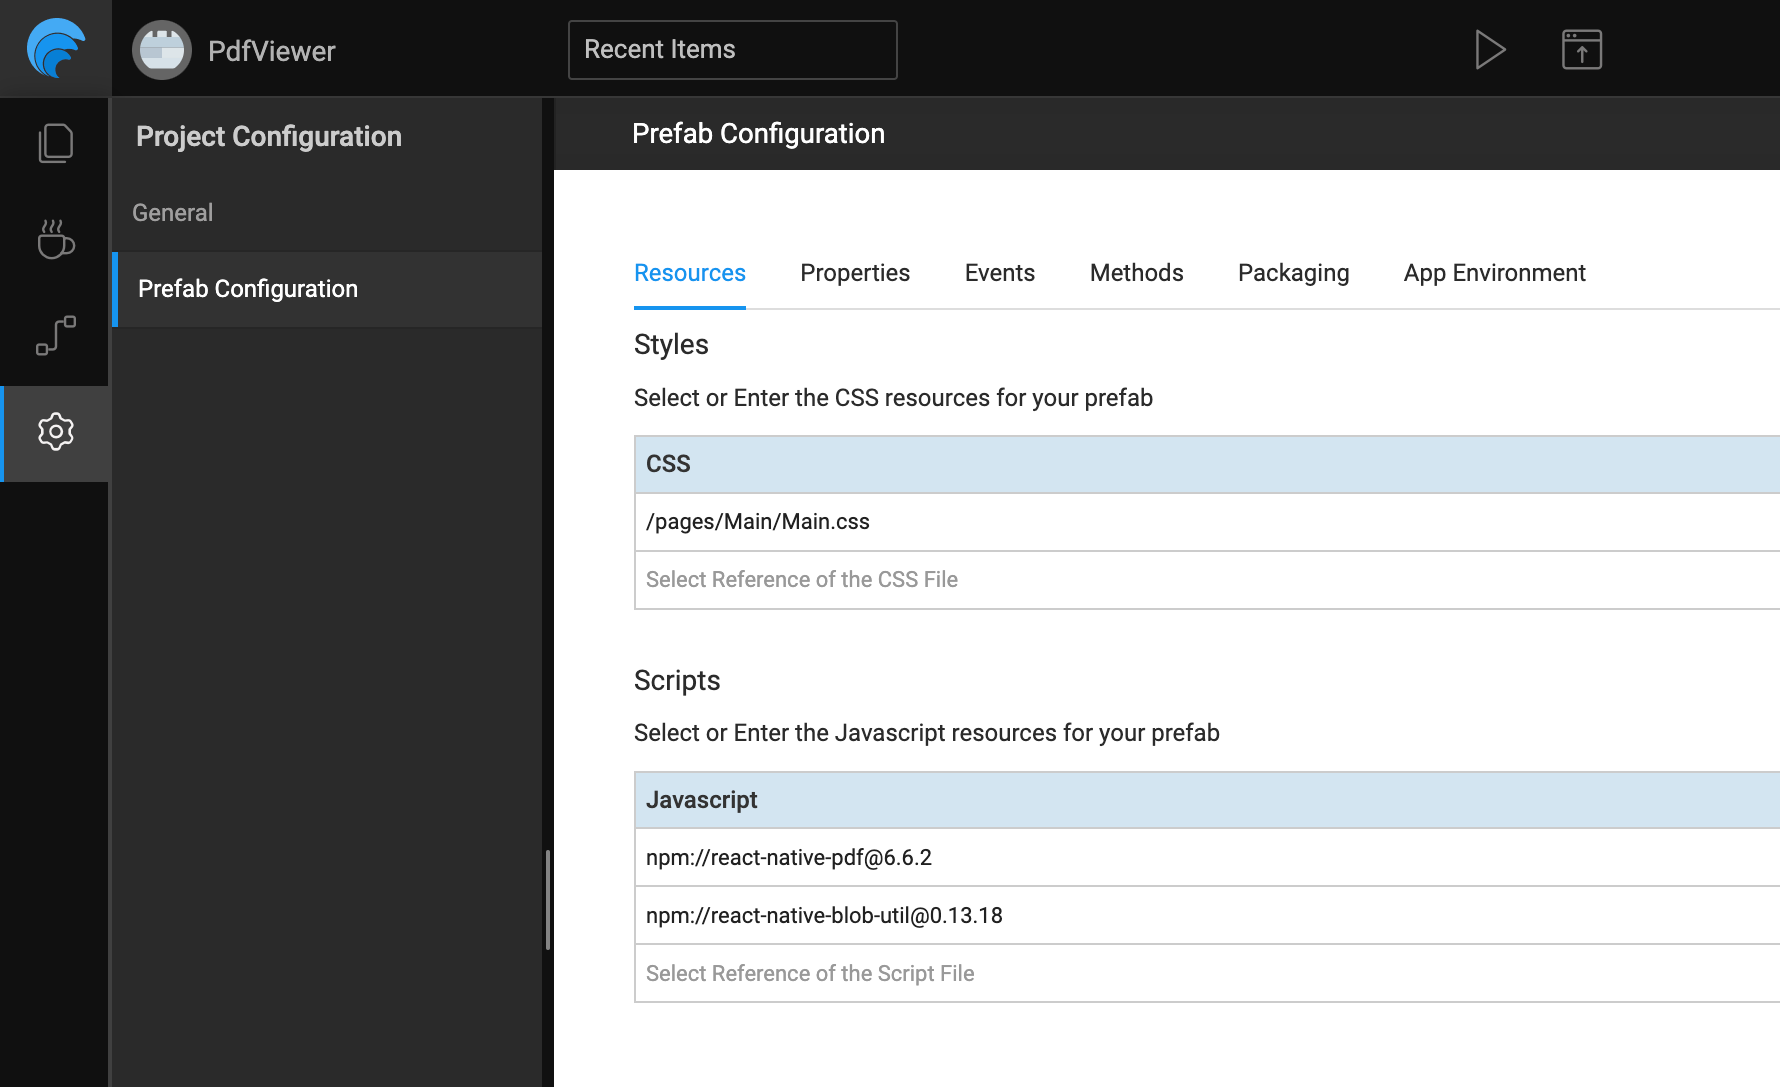
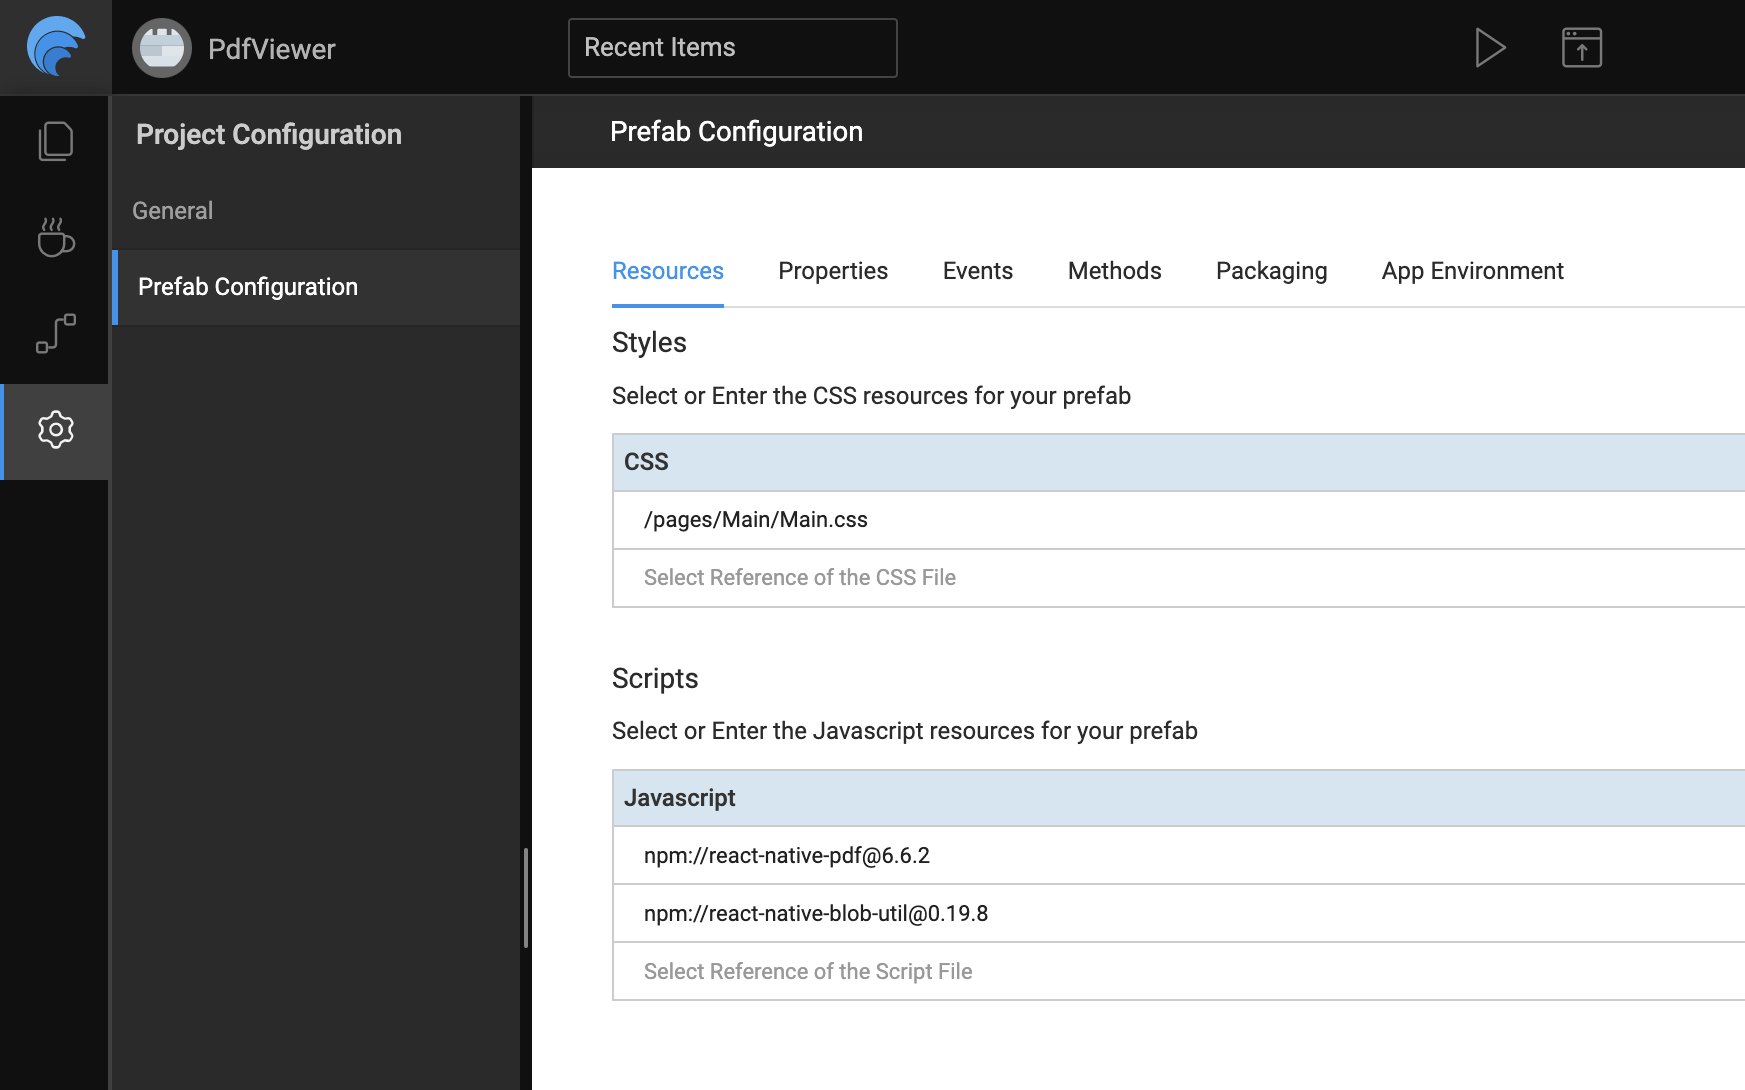
Fix: added pdf dependencies version

diff --git a/learn/react-native/pdf-preview-and-download.md b/learn/react-native/pdf-preview-and-download.md
@@ -48,8 +48,8 @@ Add link and password properties to the custom widget
 
 On creating prefab we configure it through simple steps. 
 
-Click on **setting** then click on  **Config Prefab**. Now, select Resources tab and In **Script** section add `react-native-pdf` and 
-`react-native-blob-util` dependencies to the scripts and then click on save.
+Click on **setting** then click on  **Config Prefab**. Now, select Resources tab and In **Script** section add `react-native-pdf@6.6.2` and 
+`react-native-blob-util@0.19.8` dependencies to the scripts and then click on save.
 
 <img src={AddPackages} style={{width:"100%"}} />
 
